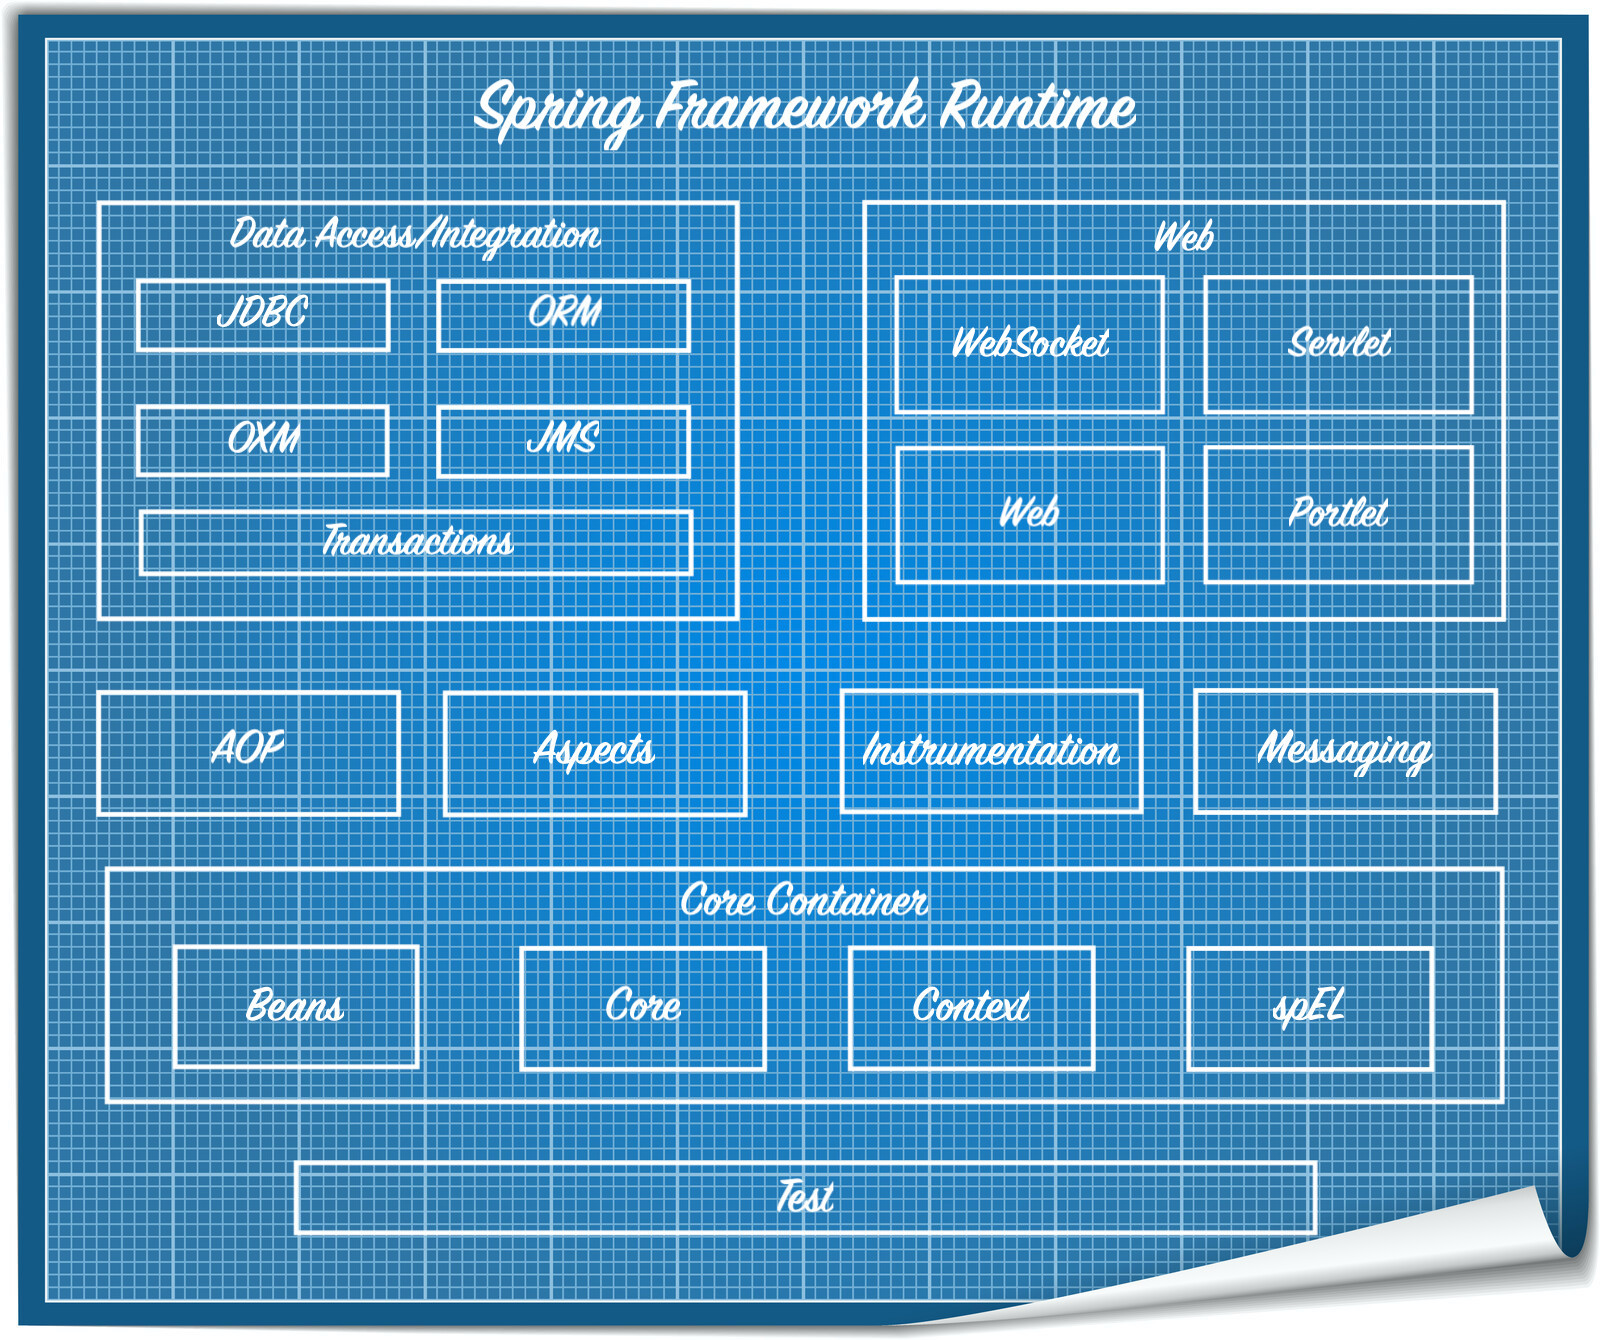
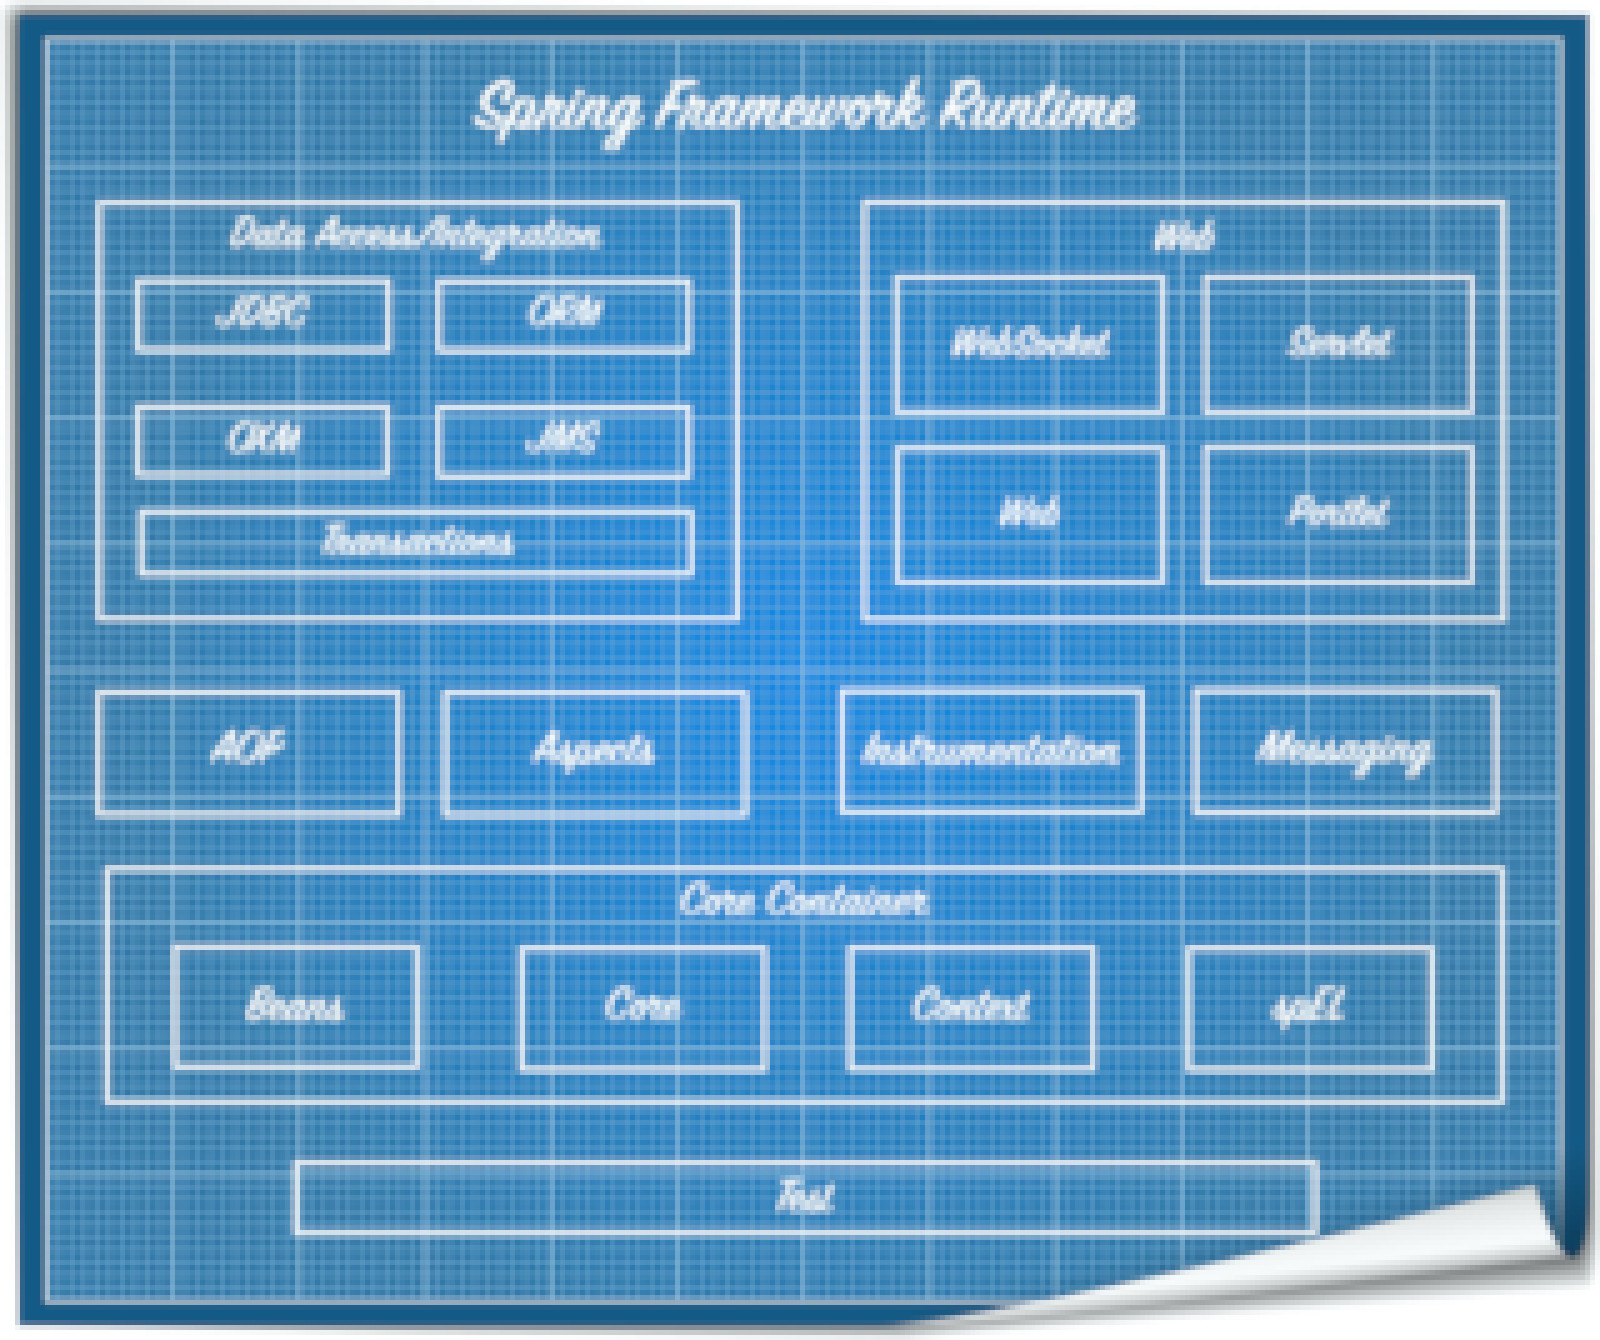
Added blur effect

diff --git a/_posts/2019-10-12-spring-cloud-config-vault.md b/_posts/2019-10-12-spring-cloud-config-vault.md
@@ -1,0 +1,31 @@
+---
+layout: post
+title:  "Spring Cloud Config with Spring Vault"
+comments: true
+date: 2019-10-12 08:50:28
+categories: spring
+author_name : Steve Mitchell
+author_url : /author/steve
+author_avatar: steve
+show_avatar : true
+read_time : 5
+feature_image: feature-spring
+show_related_posts: false
+square_related: recommend-raspberry
+---
+
+In 2019, I created a <a href="https://github.com/smitchell/water-monitoring-azure-example"> project demonstrating integration of Spring Boot with Azure services</a>. Below is a 4-min overview.
+
+The project is a flood warning system that consumes river level measurement events from monitoring stations. The measurements are used issue flood advisories and to send out notifications.
+
+In 2020, I will expand on this idea with with a production quality, cloud-native Spring boot application running on Kubernetes.
+
+What this space...
+
+<iframe width="560" height="315" src="https://www.youtube.com/embed/lW3zlj3zWjM" frameborder="0" allow="accelerometer; autoplay; encrypted-media; gyroscope; picture-in-picture" allowfullscreen></iframe>
+
+
+
+[jekyll]:      http://jekyllrb.com
+[jekyll-gh]:   https://github.com/jekyll/jekyll
+[jekyll-help]: https://github.com/jekyll/jekyll-help
